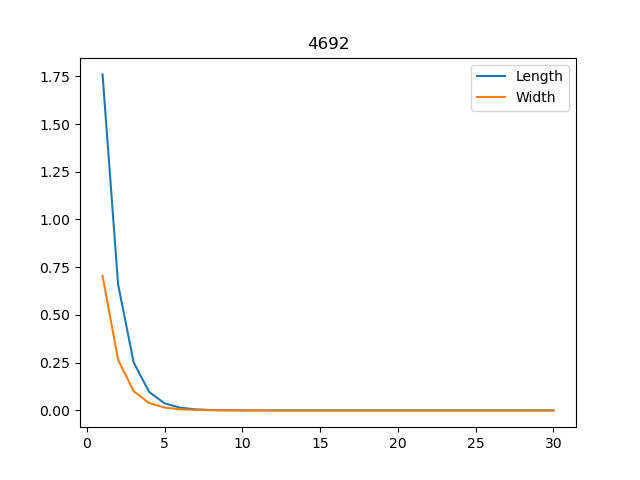
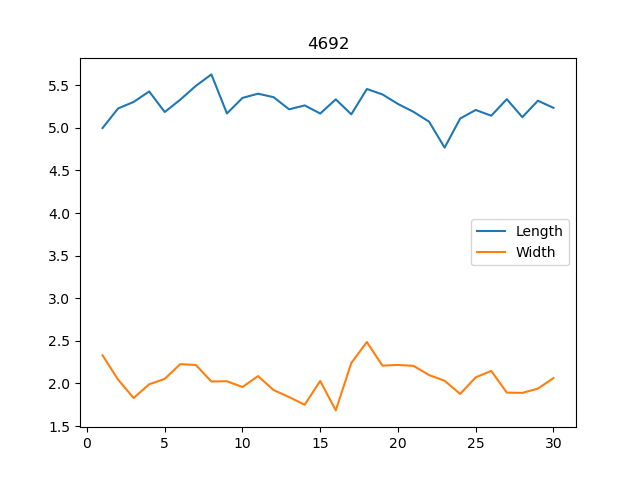
Risolto forse il problema

diff --git a/prediction_dim_vehicle.py b/prediction_dim_vehicle.py
@@ -31,6 +31,9 @@ def calculate_length_width(data):
 
 
 def variant_set_up():
+   # Measurement matrix, in this matrix the first two rows are the position of the center of the vehicle
+   # and the last two rows are the dimension of the vehicle
+   #they are the part of the state that we can measure
    C =[[1,0,0,0,0,0],[0,1,0,0,0,0],[0,0,0,0,1,0],[0,0,0,0,0,1]]
 
    #covariance matrix with the covariance of dimension of the vehicle (0.1 m)
@@ -122,6 +125,9 @@ def main():
                 A=np.array(A)
                 B=np.array(B)
             center_pos = pbb.calculate_bounding_box_center(csv_data[i])
+            #TODO:PROVO
+
+            length,width=calculate_length_width(csv_data[i])
             #posBB_array.append(center_pos)
             #Predict the state
             #Calculate A_tilde
@@ -138,9 +144,17 @@ def main():
             #Calculate the Kalman gain
             K = np.dot(np.dot(Pk_kminus1,np.transpose(C)),np.linalg.inv(np.dot(np.dot(C,Pk_kminus1),np.transpose(C))+R))
             #In questo caso z è il vettore di misura
+            #Si ha due misure: la posizione del centro del veicolo e la dimensione del veicolo
+            #Quindi si hanno due errori
+            dim= [length,width]
             z= np.array(center_pos) + m.noisy_generator()
+            dim= np.array(dim)+m.noisy_generator()
+            measure= np.array([z[0],z[1],dim[0],dim[1]])
+            #Il commento sottostante non è corretto, poichè io devo avere nel mio vettore di misura
+            #la posizione del centro del veicolo e la dimensione del veicolo
             #metto a zero poichè non ho la misura della velocità e della dimensione del veicolo
-            z= np.array([z[0],z[1],0,0])
+            #z= np.array([z[0],z[1],0,0])
+            z=np.array(measure)
 
             #Calculate the new state
             xk_k = xk_kminus1 + np.dot(K,(z - np.dot(C,xk_kminus1)))
